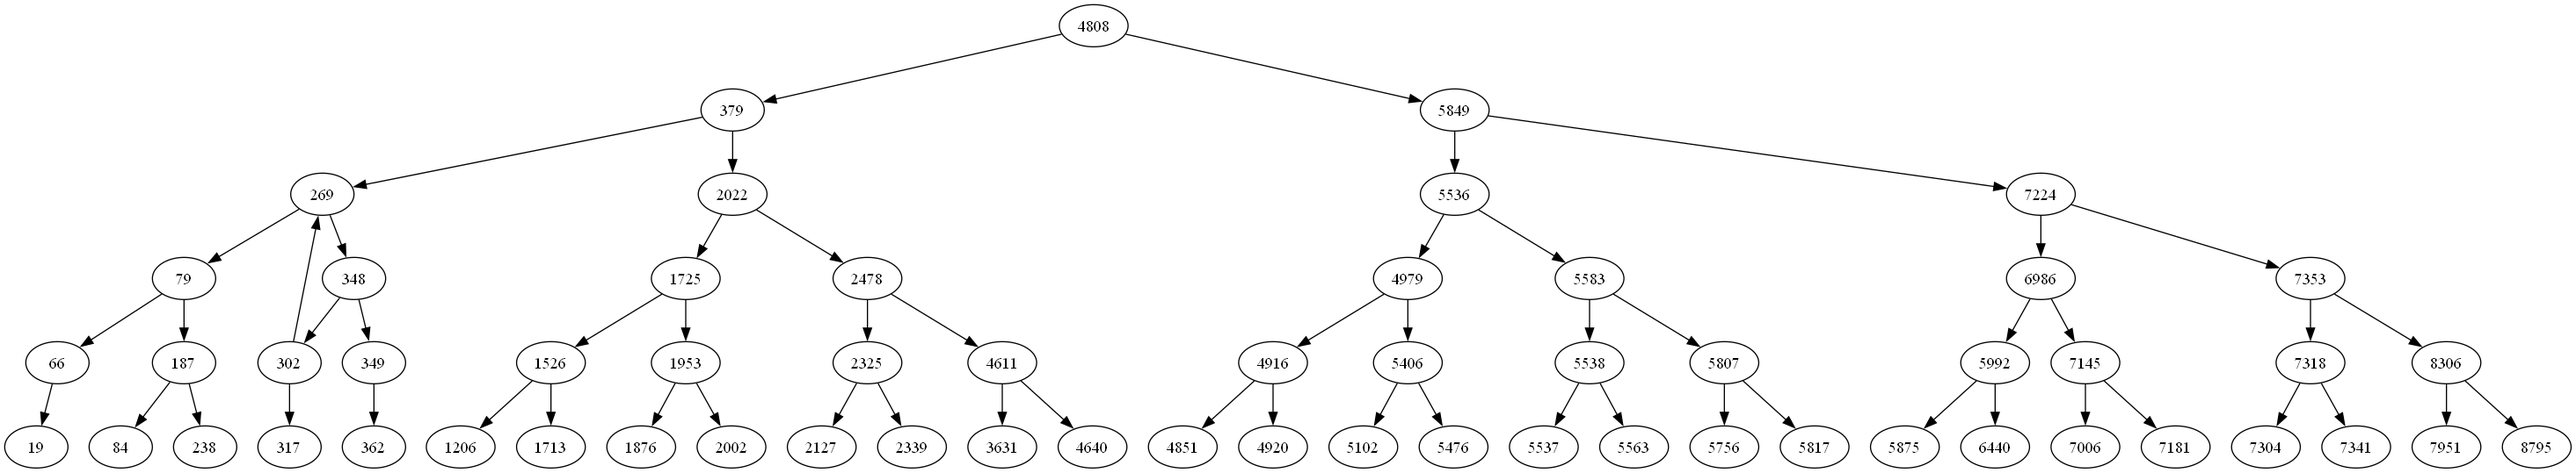
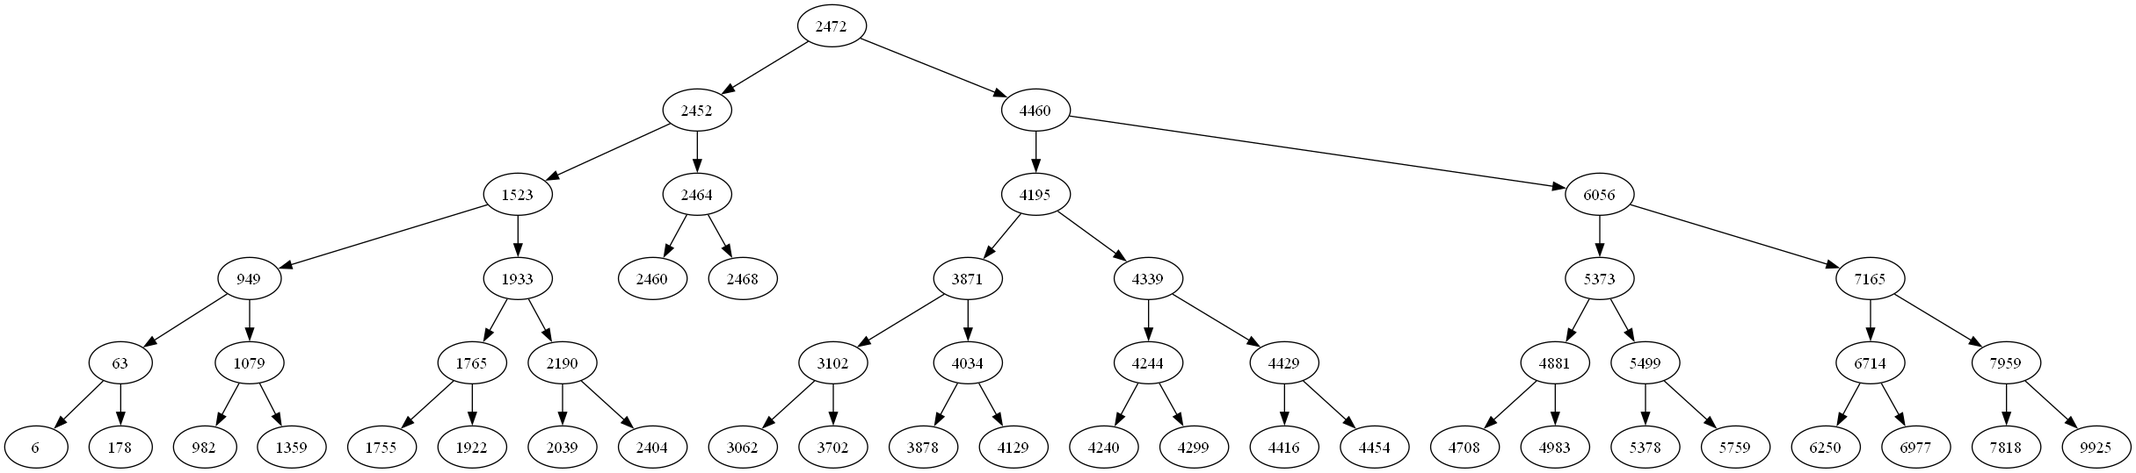
Paso 6: Escenario C - Búsqueda repetida y comparación Splay vs RB

diff --git a/main.py b/main.py
@@ -264,12 +264,52 @@ def escenario_B():
 
     return bst_it, splay_it, rb_it
 
+# ESCENARIO C
+def escenario_C():
+    splay, rb = SplayTree(), RedBlackTree()
+
+    values = [random.randint(1, 10000) for _ in range(1000)]
+
+    for v in values:
+        splay.insert(v)
+        rb.insert(v)
+
+    target = values[0]  # mismo proceso
+
+    splay_iter = []
+    rb_iter = []
+
+    for _ in range(50):
+        splay_iter.append(splay.search(target)[1])
+        rb_iter.append(rb.search(target)[1])
+
+    # Promedios
+    avg_splay = sum(splay_iter) / 50
+    avg_rb = sum(rb_iter) / 50
+
+    return avg_splay, avg_rb, splay_iter, rb_iter
+
 # GRAFICA
 def graficar(resultados):
     nombres = ["BST", "Splay", "RB"]
     plt.bar(nombres, resultados)
     plt.title("Escenario A - Comparación de Iteraciones")
     plt.ylabel("Iteraciones Promedio")
+    plt.show()
+
+def graficar_C(splay_iter, rb_iter):
+    x = list(range(1, 51))
+
+    plt.figure(figsize=(10,5))
+
+    plt.plot(x, splay_iter, label="Splay Tree")
+    plt.plot(x, rb_iter, label="Red-Black Tree")
+
+    plt.xlabel("Número de búsqueda")
+    plt.ylabel("Iteraciones")
+    plt.title("Escenario C - Búsqueda repetida")
+    plt.legend()
+
     plt.show()
 
 # MAIN
@@ -286,3 +326,11 @@ if __name__ == "__main__":
     print("BST:", B[0])
     print("Splay:", B[1])
     print("RB:", B[2])
+    
+    print("\n----- ESCENARIO C -----")
+    C = escenario_C()
+
+    print("Splay promedio:", C[0])
+    print("RB promedio:", C[1])
+
+    graficar_C(C[2], C[3])
